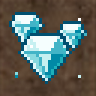
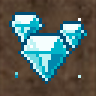
Алмаз насыщеннее, вселениум — радужные лучи потоньше; чистка модуля
Вселениум: оттенки лучей по кругу радуги, контур холодно-синий, лучи уже — ΔE до алмаза 21, до прежнего лития 19
(пары проходят check_ores). Алмаз: хрома тонов выше, чтобы не сливаться с алюминием. Из модуля убраны мёртвые присваивания.

Claude-Session: https://claude.ai/code/session_0136gV4z446Ram1BD5cWLTAs

diff --git a/tools/ores_gems.py b/tools/ores_gems.py
@@ -28,7 +28,7 @@ import math
 import random
 
 import numpy as np
-from PIL import Image, ImageDraw
+from PIL import Image, ImageDraw, ImageFilter
 
 from sprite_kit import G, Sprite
 
@@ -212,7 +212,6 @@ class Cv:
         """Ореол под фигурой: размытая маска в 3 ступени альфы с упорядоченным дизерингом на границах ступеней."""
         solid = self.solid(solid_thr)
         al = Image.fromarray((solid * 255).astype(np.uint8))
-        from PIL import ImageFilter
         v = np.array(al.filter(ImageFilter.GaussianBlur(r)), dtype=np.float64) / 255.0 * strength
         yy, xx = np.mgrid[0:G, 0:G]
         bay = BAYER[yy % 4, xx % 4]
@@ -383,8 +382,8 @@ def _universalium(mode):
     cx, cy = 15.5, 15.5
     turn = 11.0   # звезда повёрнута: без осевой симметрии
     # (угол, длина, оттенок): кардинальные лучи длинные, диагональные короткие
-    rays = [(-90, 13.5, 218), (-45, 9.5, 172), (0, 12.0, 88), (45, 9.0, 52), (90, 13.0, 352), (135, 9.5, 328),
-            (180, 12.5, 285), (-135, 9.0, 245)]
+    rays = [(-90, 13.5, 205), (-45, 9.5, 125), (0, 12.0, 85), (45, 9.0, 48), (90, 13.0, 356), (135, 9.5, 322),
+            (180, 12.5, 275), (-135, 9.0, 238)]
     order = sorted(range(len(rays)), key=lambda i: rays[i][1])
     for i in order:
         ang, ln, hue = rays[i]
@@ -392,16 +391,16 @@ def _universalium(mode):
         dx, dy = math.cos(a), math.sin(a)
         px, py = -dy, dx
         ln *= k
-        d, w = ln * 0.3, 3.3 * k * (1.0 if ln > 10.5 * k else 0.8)
+        d, w = ln * 0.3, 2.8 * k * (1.0 if ln > 10.5 * k else 0.8)
         T = (cx + dx * ln, cy + dy * ln)
         sl = (cx + dx * d - px * w, cy + dy * d - py * w)
         sr = (cx + dx * d + px * w, cy + dy * d + py * w)
-        lit, dark = lch(86, 48, hue), lch(56, 74, hue)
+        lit, dark = lch(84, 60, hue), lch(50, 96, hue)
         cv.fill(poly_mask([(cx, cy), sl, T, sr]), dark)
         cv.fill(poly_mask([(cx, cy), sl, T]), lit)
         cv.line((cx + dx * d * 0.6, cy + dy * d * 0.6), (cx + dx * ln * 0.78, cy + dy * ln * 0.78), lch(98, 10, hue))
     sil = cv.solid()
-    cv.ring(sil, lch(22, 52, 298))
+    cv.ring(sil, lch(26, 62, 264))
     # ядро: белый восьмигранник с призматическим бликом
     core = ell_mask(cx, cy, 3.3 * k, 3.3 * k)
     cv.fill(core, lch(96, 8, 250))
@@ -409,7 +408,7 @@ def _universalium(mode):
     cv.fill(ell_mask(cx - 0.6, cy - 0.7, 1.8 * k, 1.8 * k), (255, 255, 255))
     cv.put(cx + 1.2 * k, cy + 1.8 * k, lch(90, 50, 340))
     cv.put(cx + 2.2 * k, cy + 0.3 * k, lch(92, 55, 95))
-    cv.ring(core, lch(40, 44, 298))
+    cv.ring(core, lch(42, 54, 262))
     cv.halo(lch(88, 52, 215), 1.3, 0.36)
     for (x, y, n) in ((4, 5, 1), (27, 26, 1), (28, 7, 0), (5, 26, 0)):
         if cv.a[y, x, 3] < 100:
@@ -510,8 +509,8 @@ def _brilliant(cv, cx, top, w, h, P, flip=0.0):
 def _diamond(mode):
     cv = Cv("diamond")
     P = {
-        "out": lch(30, 32, 238), "deep": lch(52, 34, 228), "shade": lch(68, 32, 216), "base": lch(82, 26, 204),
-        "light": lch(92, 14, 200), "hi": lch(99, 3, 200), "cyan": lch(76, 40, 195),
+        "out": lch(28, 40, 236), "deep": lch(50, 44, 226), "shade": lch(66, 42, 214), "base": lch(81, 32, 204),
+        "light": lch(92, 17, 200), "hi": lch(99, 3, 200), "cyan": lch(76, 46, 196),
     }
     if mode == "tile":
         gems = [(8.5, 5, 9, 9, -0.5), (24, 8, 7, 7, 0.5), (15, 12, 15, 14.5, 0.0)]
@@ -548,7 +547,6 @@ def _gem_oval(cv, cx, cy, rx, ry, rot, P, pear=False):
         vx, vy = -math.sin(r), math.cos(r)
         tip = (cx + ux * rx * 1.45, cy + uy * rx * 1.45)
         m |= poly_mask([(cx + vx * ry * 0.9, cy + vy * ry * 0.9), (cx - vx * ry * 0.9, cy - vy * ry * 0.9), tip])
-    r = math.radians(rot)
     tones = [P["deep"], P["shade"], P["base"], P["light"]]
     for y, x in zip(*np.nonzero(m)):
         dx, dy = x - cx, y - cy
@@ -562,7 +560,8 @@ def _gem_oval(cv, cx, cy, rx, ry, rot, P, pear=False):
     tb &= m
     for y, x in zip(*np.nonzero(tb)):
         cv.put(x, y, P["hi"] if (x - cx) * 0.9 + (y - cy) < -0.8 else P["light"])
-    cv.ring(tb, tone(P["shade"], 2), diag=False) if rx > 4.5 else None
+    if rx > 4.5:
+        cv.ring(tb, tone(P["shade"], 2))
     cv.rim(m, P["hi"], P["reflex"], 0.55, 0.65, bottom=True)
     cv.ring(m, P["out"])
     # глянец
@@ -712,14 +711,11 @@ def _geocrystal(mode):
     # (основание x, y, высота, ширина, наклон, смещение острия): веер из центра, у ног — самая яркая точка
     prisms = [(24, 27, 14, 6.4, 22, 0.8), (7.5, 27, 11, 5.4, -24, -0.6), (16, 28, 22, 8.2, -4, 0.8),
               (11, 29, 8, 5.0, -40, 0.0), (22, 29, 7, 4.6, 36, 0.0)]
-    pts = []
-    for bx, by, H, W, ang, tl in prisms:
-        pts.append((bx, by, H, W, ang, tl))
     box = (4, 2, 28, 29) if mode == "tile" else (1, 0, 31, 31)
-    fit = _fit_prisms(pts, box)
-    for bx, by, H, W, ang, tl in fit:
+    for bx, by, H, W, ang, tl in _fit_prisms(prisms, box):
         _prism(cv, bx, by, H, W, ang, P, tl)
-    cv.spark(14, 10, P["white"], P["hi"], 1) if mode == "tile" else cv.spark(13, 7, P["white"], P["hi"], 1)
+    sx, sy = (14, 10) if mode == "tile" else (13, 7)
+    cv.spark(sx, sy, P["white"], P["hi"], 1)
     cv.shadow()
     cv.halo(lch(72, 90, 62), 2.2, 0.62, lch(50, 84, 48))
     return cv.sprite()
@@ -780,9 +776,9 @@ def _ancient_metal(mode):
         return [(16 + (x - 16.2) * k, 16 + (y - 18.0) * k) for x, y in pts]
 
     # малая плита-обломок позади (справа-снизу) и большая плита впереди с отколотым углом
-    small = _plate(cv, S([(15, 19), (27, 17), (29, 24), (18, 27)], 6), P)
+    _plate(cv, S([(15, 19), (27, 17), (29, 24), (18, 27)], 6), P)
     big_pts = S([(4, 9), (21, 7), (25, 11), (24, 12), (22, 22), (6, 24), (3, 20)], -4)
-    big = _plate(cv, big_pts, P)
+    _plate(cv, big_pts, P)
     # заклёпки в углах лицевой стороны
     for (x, y) in ((6.5, 11), (21.5, 10), (7.5, 21.5), (21, 20)):
         X, Y = S([(x, y)], -4)[0]
